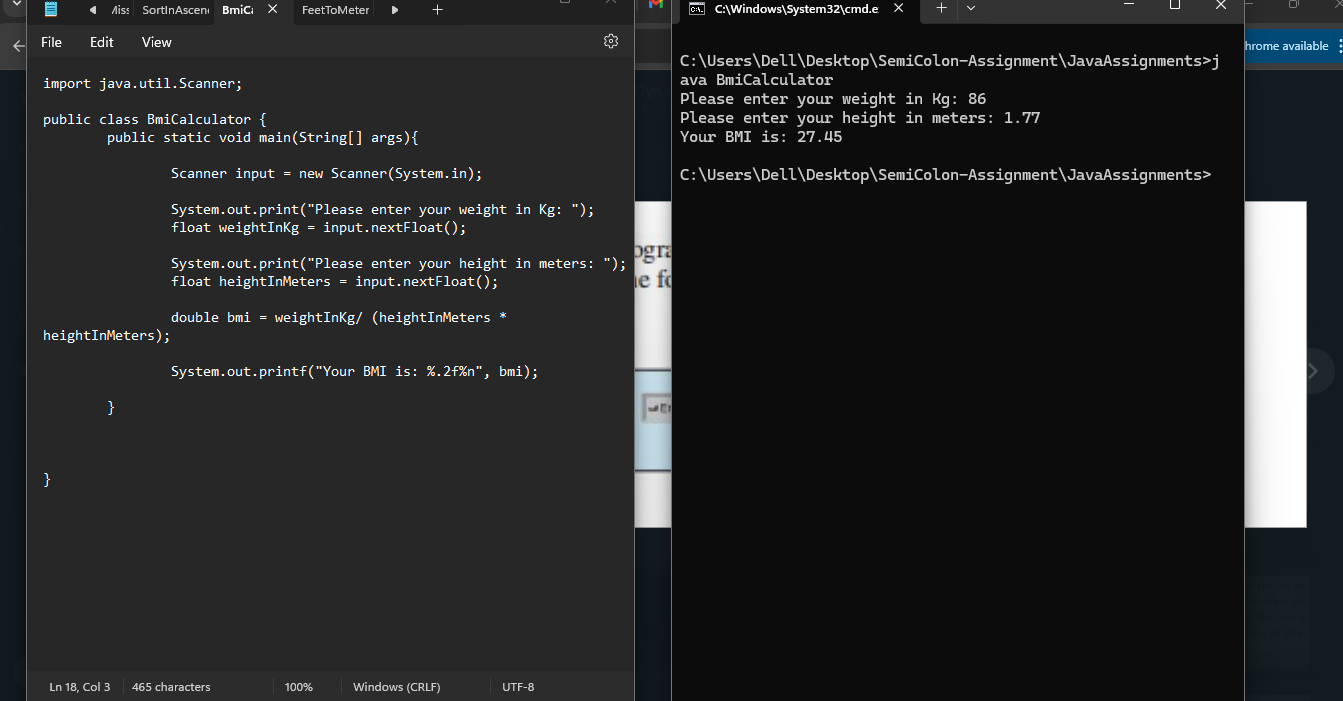
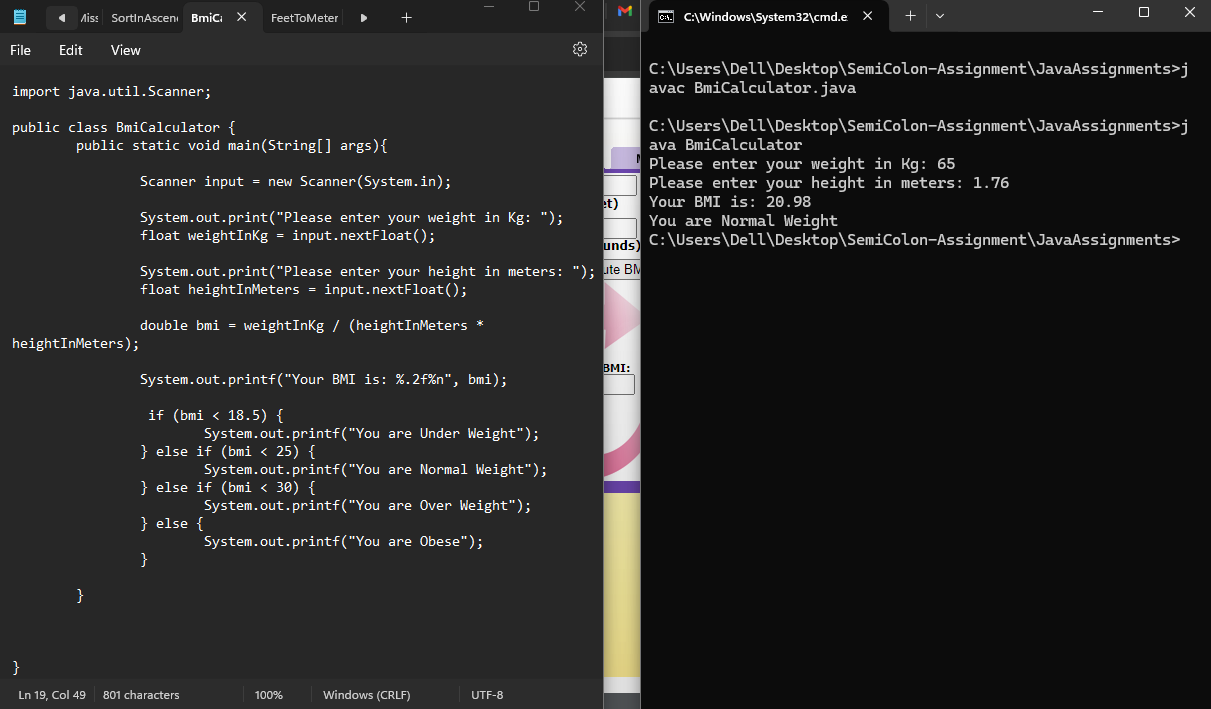
Java Assignment Updated

diff --git a/JavaAssignments/BmiCalculator.java b/JavaAssignments/BmiCalculator.java
@@ -11,9 +11,19 @@ public class BmiCalculator {
 		System.out.print("Please enter your height in meters: ");
 		float heightInMeters = input.nextFloat();
 
-		double bmi = weightInKg/ (heightInMeters * heightInMeters);
+		double bmi = weightInKg / (heightInMeters * heightInMeters);
 
 		System.out.printf("Your BMI is: %.2f%n", bmi);
+
+		 if (bmi < 18.5) {
+            		System.out.printf("You are Under Weight");
+        	} else if (bmi < 25) {
+            		System.out.printf("You are Normal Weight");
+        	} else if (bmi < 30) {
+           		System.out.printf("You are Over Weight");
+        	} else {
+            		System.out.printf("You are Obese");
+        	}
 
 	}
 
